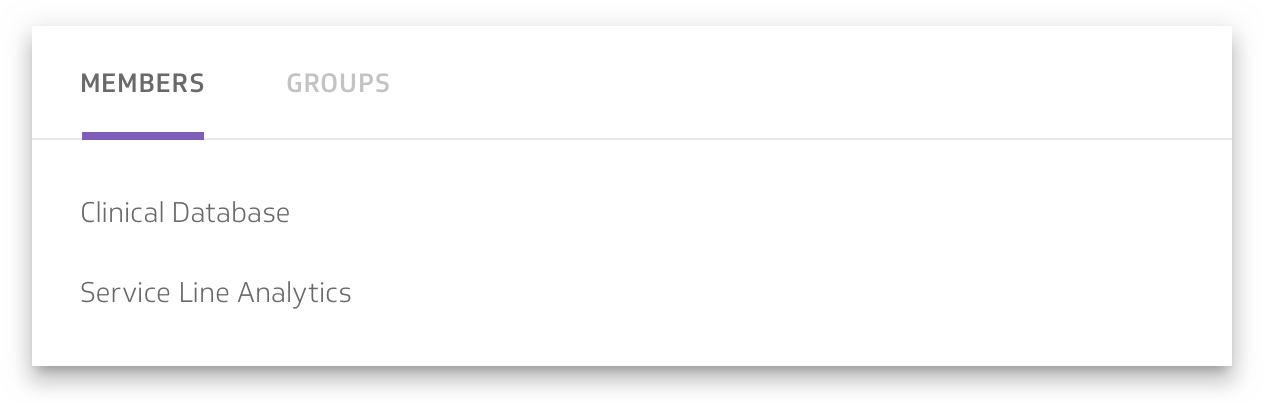
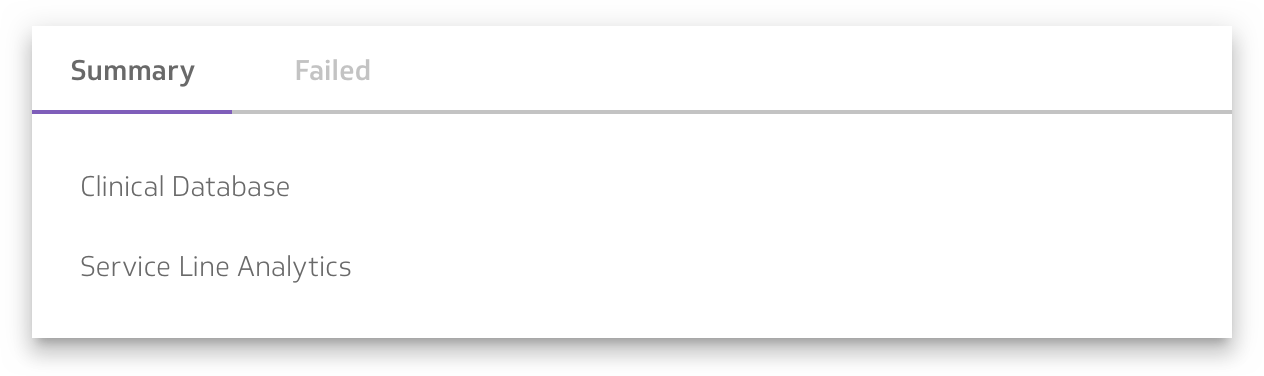
Layout – Tab: rearranged example to match Angular site + updated Toolkit Library

diff --git a/src/assets/examples/tabs-nav-bar/tabs-nav-bar.example.html b/src/assets/examples/tabs-nav-bar/tabs-nav-bar.example.html
@@ -1,0 +1,15 @@
+<span class="hljs-tag">&lt;<span class="hljs-name">div</span> <span class="hljs-attr">class</span>=<span class="hljs-string">"tabs-wrap"</span>&gt;</span>
+  <span class="hljs-tag">&lt;<span class="hljs-name">nav</span> <span class="hljs-attr">mat-tab-nav-bar</span> [<span class="hljs-attr">backgroundColor</span>]=<span class="hljs-string">"background"</span>&gt;</span>
+    <span class="hljs-tag">&lt;<span class="hljs-name">a</span> <span class="hljs-attr">mat-tab-link</span> *<span class="hljs-attr">ngFor</span>=<span class="hljs-string">"let link of links"</span> (<span class="hljs-attr">click</span>)=<span class="hljs-string">"activeLink = link"</span> [<span class="hljs-attr">active</span>]=<span class="hljs-string">"activeLink == link"</span>&gt;</span>
+      {{link}} <span class="hljs-tag">&lt;/<span class="hljs-name">a</span>&gt;</span>
+    <span class="hljs-tag">&lt;<span class="hljs-name">a</span> <span class="hljs-attr">mat-tab-link</span> <span class="hljs-attr">disabled</span>&gt;</span>Disabled<span class="hljs-tag">&lt;/<span class="hljs-name">a</span>&gt;</span>
+  <span class="hljs-tag">&lt;/<span class="hljs-name">nav</span>&gt;</span>
+  <span class="hljs-tag">&lt;<span class="hljs-name">div</span> <span class="hljs-attr">class</span>=<span class="hljs-string">"example-list"</span>&gt;</span>
+    <span class="hljs-tag">&lt;<span class="hljs-name">div</span> <span class="hljs-attr">class</span>=<span class="hljs-string">"example-list-item"</span>&gt;</span>
+      Clinical Database
+    <span class="hljs-tag">&lt;/<span class="hljs-name">div</span>&gt;</span>
+    <span class="hljs-tag">&lt;<span class="hljs-name">div</span> <span class="hljs-attr">class</span>=<span class="hljs-string">"example-list-item"</span>&gt;</span>
+      Service Line Analytics
+    <span class="hljs-tag">&lt;/<span class="hljs-name">div</span>&gt;</span>
+  <span class="hljs-tag">&lt;/<span class="hljs-name">div</span>&gt;</span>
+<span class="hljs-tag">&lt;/<span class="hljs-name">div</span>&gt;</span>

diff --git a/src/assets/documents/components/tabs.html b/src/assets/documents/components/tabs.html
@@ -35,7 +35,26 @@
     <div app-docs-example="tabs"></div>
   </div>
 
+  <div class="doc-title-4 mb-16">
+    Using Tabs with a Custom Label Template 
+  </div>
+  <div class="doc-example-container">
+    <div app-docs-example="tabs-custom-label"></div>
+  </div>
 
+  <div class="doc-title-4 mb-16">
+    Tab group with the headers on the bottom
+  </div>
+  <div class="doc-example-container">
+    <div app-docs-example="tabs-header-bottom"></div>
+  </div>
+
+  <div class="doc-title-4 mb-16">
+    Customizing the Theme Options on the Tab Group
+  </div>
+  <div class="doc-example-container">
+    <div app-docs-example="tabs-theme"></div>
+  </div>
 
   <div class="doc-title-4 mb-8">
     Simple Tabs
@@ -46,28 +65,13 @@
     <div app-docs-example="tabs-narrow"></div>
   </div>
 
-  <div class="doc-title-4 mb-16">
-    Customizing the Theme Options on the Tab Group
+  <div class="doc-title-4 mb-8">
+    Basic use of the tab nav bar
   </div>
   <div class="doc-example-container">
-    <div app-docs-example="tabs-theme"></div>
+    <div app-docs-example="tabs-nav-bar"></div>
   </div>
-
-
-
-  <div class="doc-title-4 mb-16">
-    Using Tabs with a Custom Label Template
-  </div>
-  <div class="doc-example-container">
-    <div app-docs-example="tabs-custom-label"></div>
-  </div>
-
-
-
-
-
-
-
+  
 
   <div class="doc-divider">
   </div>
@@ -216,8 +220,6 @@
     </div>
   </div>
 
-
-
   <div class="doc-divider">
 
   </div>
@@ -229,8 +231,8 @@
   </div>
 
 
-  <div class="docs-usage-spec docs-usage-center" style="height:346px">
-    <img src="assets/img/doc/tabs-spec.png" alt="">
+  <div class="docs-usage-spec docs-usage-center-no-scale" style="height:346px">
+    <img src="assets/img/doc/tabs-spec.png" alt="" style="width: 80%">
   </div>
 
   <div class="doc-divider"></div>

diff --git a/src/assets/examples/tabs-header-bottom/tabs-header-bottom.example.html b/src/assets/examples/tabs-header-bottom/tabs-header-bottom.example.html
@@ -1,0 +1,14 @@
+<span class="hljs-tag">&lt;<span class="hljs-name">div</span> <span class="hljs-attr">class</span>=<span class="hljs-string">"mat-elevation-z2 tabs-wrap"</span>&gt;</span>
+  <span class="hljs-tag">&lt;<span class="hljs-name">mat-tab-group</span> <span class="hljs-attr">headerPosition</span>=<span class="hljs-string">"below"</span>&gt;</span>
+    <span class="hljs-tag">&lt;<span class="hljs-name">mat-tab</span> *<span class="hljs-attr">ngFor</span>=<span class="hljs-string">"let link of navLinks; let i=index"</span> [<span class="hljs-attr">label</span>]=<span class="hljs-string">"link.label"</span>&gt;</span>
+      <span class="hljs-tag">&lt;<span class="hljs-name">div</span> <span class="hljs-attr">class</span>=<span class="hljs-string">"example-list"</span>&gt;</span>
+        <span class="hljs-tag">&lt;<span class="hljs-name">div</span> <span class="hljs-attr">class</span>=<span class="hljs-string">"example-list-item"</span>&gt;</span>
+          Clinical Database
+        <span class="hljs-tag">&lt;/<span class="hljs-name">div</span>&gt;</span>
+        <span class="hljs-tag">&lt;<span class="hljs-name">div</span> <span class="hljs-attr">class</span>=<span class="hljs-string">"example-list-item"</span>&gt;</span>
+          Service Line Analytics
+        <span class="hljs-tag">&lt;/<span class="hljs-name">div</span>&gt;</span>
+      <span class="hljs-tag">&lt;/<span class="hljs-name">div</span>&gt;</span>  
+    <span class="hljs-tag">&lt;/<span class="hljs-name">mat-tab</span>&gt;</span>
+  <span class="hljs-tag">&lt;/<span class="hljs-name">mat-tab-group</span>&gt;</span>
+<span class="hljs-tag">&lt;/<span class="hljs-name">div</span>&gt;</span>

diff --git a/src/assets/examples/tabs-header-bottom/tabs-header-bottom.example.ts.html b/src/assets/examples/tabs-header-bottom/tabs-header-bottom.example.ts.html
@@ -1,0 +1,36 @@
+<span class="hljs-keyword">import</span> { Component, OnInit } <span class="hljs-keyword">from</span> <span class="hljs-string">'@angular/core'</span>;
+
+<span class="hljs-meta">@Component</span>({
+  selector: <span class="hljs-string">'tabs-header-bottom'</span>,
+  templateUrl: <span class="hljs-string">'tabs-header-bottom.component.html'</span>,
+  styleUrls: [<span class="hljs-string">'tabs-header-bottom.component.scss'</span>]
+})
+<span class="hljs-keyword">export</span> <span class="hljs-keyword">class</span> TabsHeaderBottomComponent <span class="hljs-keyword">implements</span> OnInit {
+  navLinks = [
+    {
+      label: <span class="hljs-string">'SUMMARY'</span>,
+      path: <span class="hljs-string">'summary'</span>,
+      width: <span class="hljs-string">'100px'</span>
+    },
+    {
+      label: <span class="hljs-string">'FAILED'</span>,
+      path: <span class="hljs-string">'failed'</span>,
+      width: <span class="hljs-string">'80px'</span>
+    },
+    {
+      label: <span class="hljs-string">'WARNING'</span>,
+      path: <span class="hljs-string">'warning'</span>,
+      width: <span class="hljs-string">'100px'</span>
+    },
+    {
+      label: <span class="hljs-string">'PASSED'</span>,
+      path: <span class="hljs-string">'passed'</span>,
+      width: <span class="hljs-string">'80px'</span>
+    }
+  ];
+  ngOnInit() {}
+}
+
+<span class="hljs-keyword">export</span> <span class="hljs-keyword">const</span> TabsHeaderBottomData = {
+  name: <span class="hljs-string">'TabsHeaderBottom'</span>
+};

diff --git a/src/assets/examples/index.ts b/src/assets/examples/index.ts
@@ -40,6 +40,14 @@ import {
 } from 'libs';
 
 import {
+  TabsNavBarComponent,
+  TabsNavBarData
+} from './tabs-nav-bar/tabs-nav-bar.component';
+import {
+  TabsHeaderBottomComponent,
+  TabsHeaderBottomData
+} from './tabs-header-bottom/tabs-header-bottom.component';
+import {
   ButtontoggleSecondaryColorComponent,
   ButtontoggleSecondaryColorData
 } from './buttontoggle-secondary-color/buttontoggle-secondary-color.component';
@@ -572,6 +580,14 @@ import {
   MatSelectModule
 } from '@angular/material';
 export const ALL_EXAMPLE_ITEMS = {
+  'tabs-nav-bar' : {
+    component: TabsNavBarComponent,
+    data: TabsNavBarData
+  },
+  'tabs-header-bottom' : {
+    component: TabsHeaderBottomComponent,
+    data: TabsHeaderBottomData
+  },
   'buttontoggle-secondary-color' : {
     component: ButtontoggleSecondaryColorComponent,
     data: ButtontoggleSecondaryColorData
@@ -1100,6 +1116,8 @@ export const ALL_EXAMPLE_ITEMS = {
 // console.log(Object.keys(VizModules).join(','));
 @NgModule({
   declarations: [
+    TabsNavBarComponent,
+    TabsHeaderBottomComponent,
     ButtontoggleSecondaryColorComponent,
     ButtontoggleTwoIconComponent,
     ButtontoggleThreeIconComponent,
@@ -1284,6 +1302,8 @@ export const ALL_EXAMPLE_ITEMS = {
   ],
   providers: [],
   entryComponents: [
+    TabsNavBarComponent,
+    TabsHeaderBottomComponent,
     ButtontoggleSecondaryColorComponent,
     ButtontoggleTwoIconComponent,
     ButtontoggleThreeIconComponent,

diff --git a/src/assets/examples/tabs-narrow/tabs-narrow.example.ts.html b/src/assets/examples/tabs-narrow/tabs-narrow.example.ts.html
@@ -1,20 +1,28 @@
 <span class="hljs-keyword">import</span> { Component, OnInit } <span class="hljs-keyword">from</span> <span class="hljs-string">'@angular/core'</span>;
 
 <span class="hljs-meta">@Component</span>({
-	selector: <span class="hljs-string">'tabs-narrow'</span>,
+  selector: <span class="hljs-string">'tabs-narrow'</span>,
   templateUrl: <span class="hljs-string">'tabs-narrow.component.html'</span>,
-  styleUrls: [<span class="hljs-string">'tabs-narrow.component.css'</span>],
+  styleUrls: [<span class="hljs-string">'tabs-narrow.component.scss'</span>]
 })
-
 <span class="hljs-keyword">export</span> <span class="hljs-keyword">class</span> TabsNarrowComponent <span class="hljs-keyword">implements</span> OnInit {
+  navLinks = [
+    {
+      label: <span class="hljs-string">'ALL MEMBERS'</span>,
+      path: <span class="hljs-string">'summary'</span>,
+      width: <span class="hljs-string">'100px'</span>
+    },
+    {
+      label: <span class="hljs-string">'GROUP'</span>,
+      path: <span class="hljs-string">'failed'</span>,
+      width: <span class="hljs-string">'80px'</span>
+    }
+  ];
+  ngOnInit() {}
 
-  ngOnInit() { }
-  
-  seachOnClick() {
-    
-  }
+  seachOnClick() {}
 }
 
 <span class="hljs-keyword">export</span> <span class="hljs-keyword">const</span> TabsNarrowData = {
-	name: <span class="hljs-string">'TabsNarrow'</span>
-}
+  name: <span class="hljs-string">'TabsNarrow'</span>
+};

diff --git a/src/assets/examples/tabs-nav-bar/tabs-nav-bar.example.ts.html b/src/assets/examples/tabs-nav-bar/tabs-nav-bar.example.ts.html
@@ -1,0 +1,20 @@
+<span class="hljs-keyword">import</span> { Component, OnInit } <span class="hljs-keyword">from</span> <span class="hljs-string">'@angular/core'</span>;
+
+<span class="hljs-meta">@Component</span>({
+  selector: <span class="hljs-string">'tabs-nav-bar'</span>,
+  templateUrl: <span class="hljs-string">'tabs-nav-bar.component.html'</span>,
+  styleUrls: [<span class="hljs-string">'tabs-nav-bar.component.scss'</span>]
+})
+<span class="hljs-keyword">export</span> <span class="hljs-keyword">class</span> TabsNavBarComponent <span class="hljs-keyword">implements</span> OnInit {
+  links = [<span class="hljs-string">'Summary'</span>, <span class="hljs-string">'Warning'</span>, <span class="hljs-string">'Passed'</span>];
+  activeLink = <span class="hljs-keyword">this</span>.links[<span class="hljs-number">0</span>];
+  background = <span class="hljs-string">''</span>;
+  ngOnInit() {}
+  toggleBackground() {
+    <span class="hljs-keyword">this</span>.background = <span class="hljs-keyword">this</span>.background ? <span class="hljs-string">''</span> : <span class="hljs-string">'primary'</span>;
+  }
+}
+
+<span class="hljs-keyword">export</span> <span class="hljs-keyword">const</span> TabsNavBarData = {
+  name: <span class="hljs-string">'TabsNavBar'</span>
+};

diff --git a/src/assets/examples/tabs-narrow/tabs-narrow.example.html b/src/assets/examples/tabs-narrow/tabs-narrow.example.html
@@ -1,4 +1,4 @@
-<span class="hljs-tag">&lt;<span class="hljs-name">div</span> <span class="hljs-attr">class</span>=<span class="hljs-string">"mat-elevation-z2 tabs-wrap"</span>&gt;</span>
+<span class="hljs-tag">&lt;<span class="hljs-name">div</span> <span class="hljs-attr">class</span>=<span class="hljs-string">"mat-elevation-z2 tabs-wrap-narrow"</span>&gt;</span>
     <span class="hljs-tag">&lt;<span class="hljs-name">mat-tab-group</span>&gt;</span>
       <span class="hljs-tag">&lt;<span class="hljs-name">mat-tab</span> *<span class="hljs-attr">ngFor</span>=<span class="hljs-string">"let link of navLinks; let i=index"</span> [<span class="hljs-attr">label</span>]=<span class="hljs-string">"link.label"</span>&gt;</span>
         <span class="hljs-tag">&lt;<span class="hljs-name">mat-list</span>&gt;</span>

diff --git a/src/assets/examples/tabs-header-bottom/tabs-header-bottom.component.spec.ts b/src/assets/examples/tabs-header-bottom/tabs-header-bottom.component.spec.ts
@@ -1,0 +1,24 @@
+import { async, ComponentFixture, TestBed } from '@angular/core/testing';
+
+import { TabsHeaderBottomComponentComponent } from './tabs-header-bottom.component';
+
+describe('TabsHeaderBottomComponentComponent', () => {
+  let component: TabsHeaderBottomComponentComponent;
+  let fixture: ComponentFixture<TabsHeaderBottomComponentComponent>;
+
+  beforeEach(async(() => {
+    TestBed.configureTestingModule({
+      declarations: [TabsHeaderBottomComponentComponent]
+    }).compileComponents();
+  }));
+
+  beforeEach(() => {
+    fixture = TestBed.createComponent(TabsHeaderBottomComponentComponent);
+    component = fixture.componentInstance;
+    fixture.detectChanges();
+  });
+
+  it('should create', () => {
+    expect(component).toBeTruthy();
+  });
+});

diff --git a/src/assets/examples/tabs-nav-bar/tabs-nav-bar.component.spec.ts b/src/assets/examples/tabs-nav-bar/tabs-nav-bar.component.spec.ts
@@ -1,0 +1,24 @@
+import { async, ComponentFixture, TestBed } from '@angular/core/testing';
+
+import { TabsNavBarComponentComponent } from './tabs-nav-bar.component';
+
+describe('TabsNavBarComponentComponent', () => {
+  let component: TabsNavBarComponentComponent;
+  let fixture: ComponentFixture<TabsNavBarComponentComponent>;
+
+  beforeEach(async(() => {
+    TestBed.configureTestingModule({
+      declarations: [TabsNavBarComponentComponent]
+    }).compileComponents();
+  }));
+
+  beforeEach(() => {
+    fixture = TestBed.createComponent(TabsNavBarComponentComponent);
+    component = fixture.componentInstance;
+    fixture.detectChanges();
+  });
+
+  it('should create', () => {
+    expect(component).toBeTruthy();
+  });
+});

diff --git a/src/assets/examples/tabs-header-bottom/tabs-header-bottom.component.ts b/src/assets/examples/tabs-header-bottom/tabs-header-bottom.component.ts
@@ -1,0 +1,36 @@
+import { Component, OnInit } from '@angular/core';
+
+@Component({
+  selector: 'tabs-header-bottom',
+  templateUrl: 'tabs-header-bottom.component.html',
+  styleUrls: ['tabs-header-bottom.component.scss']
+})
+export class TabsHeaderBottomComponent implements OnInit {
+  navLinks = [
+    {
+      label: 'SUMMARY',
+      path: 'summary',
+      width: '100px'
+    },
+    {
+      label: 'FAILED',
+      path: 'failed',
+      width: '80px'
+    },
+    {
+      label: 'WARNING',
+      path: 'warning',
+      width: '100px'
+    },
+    {
+      label: 'PASSED',
+      path: 'passed',
+      width: '80px'
+    }
+  ];
+  ngOnInit() {}
+}
+
+export const TabsHeaderBottomData = {
+  name: 'TabsHeaderBottom'
+};

diff --git a/src/app/shared/documentation-items/documentation-items.ts b/src/app/shared/documentation-items/documentation-items.ts
@@ -21,6 +21,8 @@ const DOCS: {[key: string]: DocCategory[]} = {
       id: 'buttons&indicators',
       name: 'Buttons & Indicators',
       items: [
+        {id: 'tabsnavbar', name: 'TabsNavBar', examples: ['tabs-nav-bar']},
+        {id: 'tabsheaderbottom', name: 'TabsHeaderBottom', examples: ['tabs-header-bottom']},
         {id: 'buttontogglesecondarycolor', name: 'ButtontoggleSecondaryColor', examples: ['buttontoggle-secondary-color']},
         {id: 'buttontoggletwoicon', name: 'ButtontoggleTwoIcon', examples: ['buttontoggle-two-icon']},
         {id: 'buttontogglethreeicon', name: 'ButtontoggleThreeIcon', examples: ['buttontoggle-three-icon']},
